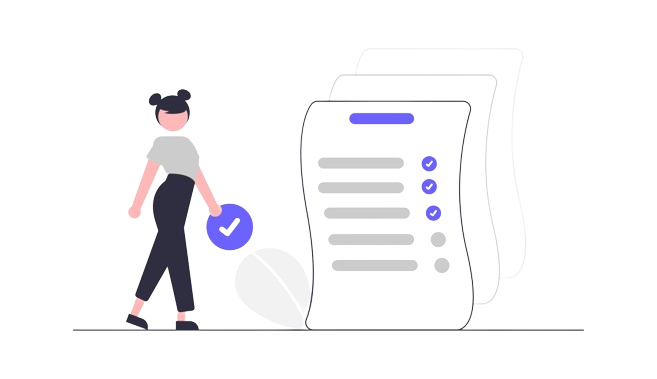
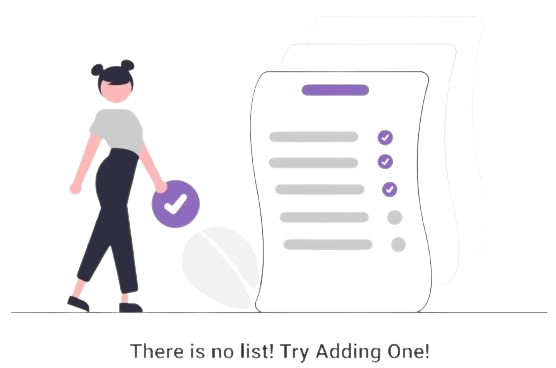
modified itemstobuy, fixed the infinite  waterfall

diff --git a/src/scenes/lists/ToBuyItems.jsx b/src/scenes/lists/ToBuyItems.jsx
@@ -7,27 +7,28 @@ import {
   Modal,
   Typography,
 } from "@mui/material";
+import Backdrop from "@mui/material/Backdrop";
+import CircularProgress from "@mui/material/CircularProgress";
 import AddCircleIcon from "@mui/icons-material/AddCircle";
 import { useParams } from "react-router-dom";
 import { AddItem, ItemBox } from "../../components/to buy list";
-import api from "../../api/api";
+import { getItemsToBuy } from "../../api/itemsToBuy";
 import toDoListImage from "../../assets/to_do_list.png";
 
 const ToBuyItems = () => {
   const [open, setOpen] = useState(false);
   const [page, setPage] = useState("active");
   const [items, setItems] = useState([]);
+  // const [isLoading, setIsLoading] = useState(false);
   const { listId } = useParams();
 
+  const fetchItems = () => {
+    getItemsToBuy().then((res) => {
+      setItems(res);
+    });
+  };
+
   useEffect(() => {
-    const fetchItems = async () => {
-      try {
-        const response = await api.get("/itemstobuy");
-        setItems(response.data);
-      } catch (error) {
-        console.error("Error fetching items:", error);
-      }
-    };
     fetchItems();
   }, []);
 
@@ -49,28 +50,21 @@ const ToBuyItems = () => {
         backgroundImage:
           filteredItems.length === 0 ? `url(${toDoListImage})` : "none",
         backgroundRepeat: "no-repeat",
-        backgroundSize: "50%",
+        backgroundSize: "40%",
         backgroundPosition: "center",
         position: "relative",
       }}
     >
-      {/* To remove later */}
-      <Typography
-        variant="h3"
-        sx={{
-          position: "absolute",
-          top: "75%",
-          left: "40%",
-          fontWeight: "bold",
-          opacity: 0.7,
-        }}
+      {/* <Backdrop
+        sx={{ color: "#fff", zIndex: (theme) => theme.zIndex.drawer + 1 }}
+        open={isLoading}
       >
-        There is no list! Try Adding One!
-      </Typography>
+        <CircularProgress color="inherit" />
+      </Backdrop> */}
+
       <Typography variant="h4" gutterBottom>
         {listId}
       </Typography>
-
       <ButtonGroup variant="contained" sx={{ backgroundColor: "black" }}>
         <Button
           value="active"
@@ -103,7 +97,6 @@ const ToBuyItems = () => {
           Closed
         </Button>
       </ButtonGroup>
-
       <Box
         sx={{
           width: "900px",
@@ -124,10 +117,10 @@ const ToBuyItems = () => {
             price={item.price}
             isPurchased={item.isPurchased}
             itemId={item._id}
+            refresh={fetchItems}
           />
         ))}
       </Box>
-
       <IconButton
         onClick={() => setOpen(true)}
         size="large"
@@ -148,7 +141,6 @@ const ToBuyItems = () => {
           }}
         />
       </IconButton>
-
       <Modal open={open} onClose={() => setOpen(false)}>
         <Box
           sx={{
@@ -162,6 +154,8 @@ const ToBuyItems = () => {
             onClose={() => {
               setOpen(false);
             }}
+            items={items}
+            refresh={fetchItems}
           />
         </Box>
       </Modal>

diff --git a/src/api/itemsToBuy.js b/src/api/itemsToBuy.js
@@ -1,57 +1,46 @@
-// api/ItemsToBuyContext.js
-import React, { createContext, useContext, useState } from "react";
 import api from "./api";
 
-const ItemsToBuyContext = createContext();
-
-export const ItemsToBuyProvider = ({ children }) => {
-  const [items, setItems] = useState([]);
-
-  const getItems = async () => {
-    try {
-      const response = await api.get("/items");
-      setItems(response.data); // Update state with fetched items
-    } catch (error) {
-      console.error("Error fetching items:", error);
-      throw error;
-    }
-  };
-
-  const deleteItem = async (itemId) => {
-    try {
-      await api.delete(`/items/${itemId}`);
-      // Optionally update items state after deletion
-      setItems(items.filter((item) => item.id !== itemId));
-    } catch (error) {
-      console.error(`Error deleting item ${itemId}:`, error);
-      throw error;
-    }
-  };
-
-  const updateItem = async (itemId, newData) => {
-    try {
-      await api.patch(`/items/${itemId}`, newData);
-      // Optionally update items state after update
-      setItems(
-        items.map((item) =>
-          item.id === itemId ? { ...item, ...newData } : item
-        )
-      );
-    } catch (error) {
-      console.error(`Error updating item ${itemId}:`, error);
-      throw error;
-    }
-  };
-
-  return (
-    <ItemsToBuyContext.Provider
-      value={{ items, getItems, deleteItem, updateItem }}
-    >
-      {children}
-    </ItemsToBuyContext.Provider>
-  );
+export const getItemsToBuy = async () => {
+  try {
+    const response = await api.get("/itemstobuy");
+    return response.data;
+  } catch (error) {
+    console.error("Error fetching items:", error);
+  }
 };
 
-export const useApi = () => {
-  return useContext(ItemsToBuyContext);
+export const postItemsToBuy = async (updatedData) => {
+  try {
+    const response = await api.post(
+      "/users/5faabc3fe0baf627b85e6a2d/itemstobuy",
+      updatedData
+    );
+    return response.data;
+  } catch (error) {
+    console.error("Error adding new item:", error);
+    throw error;
+  }
+};
+
+export const patchItemToBuy = async (itemId, updatedData) => {
+  try {
+    const response = await api.patch(
+      `/users/5faabc3fe0baf627b85e6a2d/itemstobuy/${itemId}`,
+      updatedData
+    );
+    return response.data;
+  } catch (error) {
+    console.error(`Error updating item ${itemId}:`, error);
+    throw error;
+  }
+};
+
+export const deleteItemToBuy = async (itemId) => {
+  try {
+    const response = await api.delete(`/itemstobuy/${itemId}`);
+    return response.data;
+  } catch (error) {
+    console.error(`Error deleting item ${itemId}:`, error);
+    throw error;
+  }
 };

diff --git a/src/components/to buy list/EditItem.jsx b/src/components/to buy list/EditItem.jsx
@@ -11,9 +11,17 @@ import React, { useState } from "react";
 import CloseIcon from "@mui/icons-material/Close";
 import { EntryBox, EntryInput } from "../utils";
 import { tokens } from "../../theme";
-import api from "../../api/api";
+import { patchItemToBuy, deleteItemToBuy } from "../../api/itemsToBuy";
 
-const EditItem = ({ onClose, name, quantity, price, description, itemId }) => {
+const EditItem = ({
+  onClose,
+  name,
+  quantity,
+  price,
+  description,
+  itemId,
+  refresh,
+}) => {
   const theme = useTheme();
   const colors = tokens(theme.palette.mode);
 
@@ -23,27 +31,20 @@ const EditItem = ({ onClose, name, quantity, price, description, itemId }) => {
   const [itemDescription, setItemDescription] = useState(description || "");
 
   const handleSave = async () => {
-    try {
-      await api.patch(`/users/5faabc3fe0baf627b85e6a2d/itemstobuy/${itemId}`, {
-        name: itemName,
-        quantity: itemQuantity,
-        price: itemPrice,
-        description: itemDescription,
-      });
-      onClose();
-    } catch (error) {
-      console.error("Error updating item:", error);
-    }
+    await patchItemToBuy(itemId, {
+      name: itemName,
+      quantity: itemQuantity,
+      price: itemPrice,
+      description: itemDescription,
+    });
+    refresh();
+    onClose();
   };
 
   const handleDelete = async () => {
-    try {
-      await api.delete(`/itemstobuy/${itemId}`);
-      onClose();
-    } catch (error) {
-      console.error(error);
-      throw error;
-    }
+    await deleteItemToBuy(itemId);
+    refresh();
+    onClose();
   };
   return (
     // Container
@@ -149,7 +150,7 @@ const EditItem = ({ onClose, name, quantity, price, description, itemId }) => {
           onClick={handleDelete}
         >
           <Typography variant="text2" sx={{ color: "white" }}>
-            Delete Ttem
+            Delete Item
           </Typography>
         </Button>
       </Box>

diff --git a/src/components/to buy list/ItemBox.jsx b/src/components/to buy list/ItemBox.jsx
@@ -10,7 +10,7 @@ import {
 } from "@mui/material";
 import { DoneAll as DoneAllIcon } from "@mui/icons-material";
 import EditItem from "./EditItem";
-import api from "../../api/api";
+import { patchItemToBuy } from "../../api/itemsToBuy";
 
 const ItemBox = ({
   name,
@@ -19,17 +19,15 @@ const ItemBox = ({
   price,
   isPurchased,
   itemId,
+  refresh,
 }) => {
   const [open, setOpen] = useState(false);
 
   const handleChange = async () => {
-    try {
-      await api.patch(`/users/5faabc3fe0baf627b85e6a2d/itemstobuy/${itemId}`, {
-        isPurchased: !isPurchased,
-      });
-    } catch (error) {
-      console.error("Error updating item:", error);
-    }
+    await patchItemToBuy(itemId, {
+      isPurchased: !isPurchased,
+    });
+    refresh();
   };
 
   return (
@@ -104,6 +102,7 @@ const ItemBox = ({
             price={price}
             description={description}
             itemId={itemId}
+            refresh={refresh}
           />
         </Box>
       </Modal>

diff --git a/src/components/to buy list/AddItem.jsx b/src/components/to buy list/AddItem.jsx
@@ -8,9 +8,9 @@ import {
 } from "@mui/material";
 import CloseIcon from "@mui/icons-material/Close";
 import { EntryBox, EntryInput } from "../utils";
-import api from "../../api/api";
+import { postItemsToBuy } from "../../api/itemsToBuy";
 
-const AddItem = ({ onClose }) => {
+const AddItem = ({ onClose, refresh }) => {
   const [name, setName] = useState("");
   const [quantity, setQuantity] = useState("");
   const [price, setPrice] = useState("");
@@ -18,10 +18,8 @@ const AddItem = ({ onClose }) => {
 
   const handleSaveItem = async () => {
     try {
-      const response = await api.post(
-        "/users/5faabc3fe0baf627b85e6a2d/itemstobuy",
-        { name, quantity, price, description }
-      );
+      await postItemsToBuy({ name, quantity, price, description });
+      refresh();
       onClose();
     } catch (error) {
       console.error("Error adding new item:", error);

diff --git a/src/App.js b/src/App.js
@@ -36,9 +36,9 @@ function App() {
               <Route path="/records" element={<Records />} />
               <Route path="/knowledge" element={<Knowledge />} />
               <Route path="/lists/debt-list" element={<Debt />} />
-              <Route path="/to-buy-list/lists" element={<ToBuyList />} />
+              <Route path="/lists/to-buy-lists" element={<ToBuyList />} />
               <Route
-                path="/to-buy-list/lists/:listId"
+                path="/lists/to-buy-lists/:listId"
                 element={<ToBuyItems />}
               />
               <Route path="/budget" element={<Budget />} />

diff --git a/src/components/global/Topbar.jsx b/src/components/global/Topbar.jsx
@@ -22,9 +22,9 @@ import { RecordBtn } from "../utils";
 // Function to map paths to titles
 const getTitle = (path) => {
   switch (true) {
-    case /^\/to-buy-list\/lists\/.*$/.test(path):
+    case /^\/lists\/to-buy-lists\/.*$/.test(path):
       return "To Buy List";
-    case /^\/to-buy-list\/lists$/.test(path):
+    case /^\/lists\/to-buy-lists$/.test(path):
       return "To Buy List";
     case /^\/lists\/debt-list$/.test(path):
       return "Debt List";

diff --git a/src/components/to buy list/ListBox.jsx b/src/components/to buy list/ListBox.jsx
@@ -12,7 +12,7 @@ const ListBox = ({ name, description }) => {
       {/* Left  */}
       <Button
         component={Link}
-        to={`/to-buy-list/lists/${name}`}
+        to={`/lists/to-buy-lists/${name}`}
         sx={{
           width: "801px",
           height: "85.64px",
